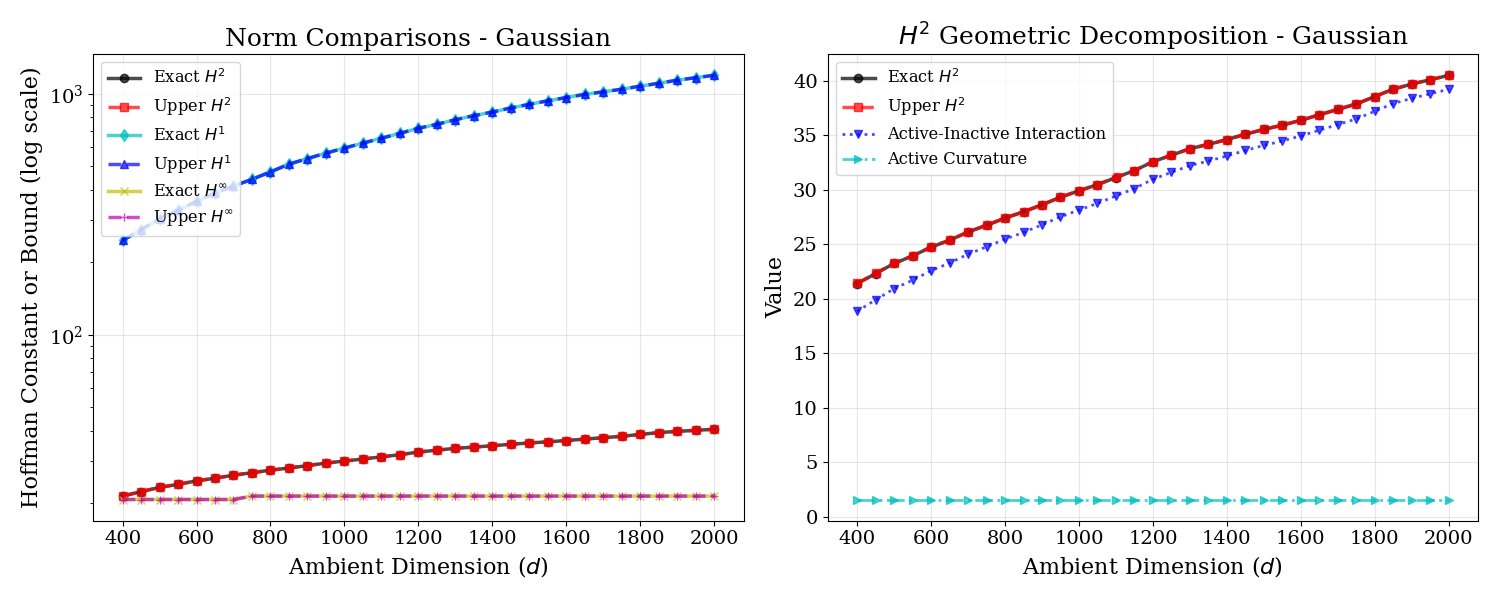
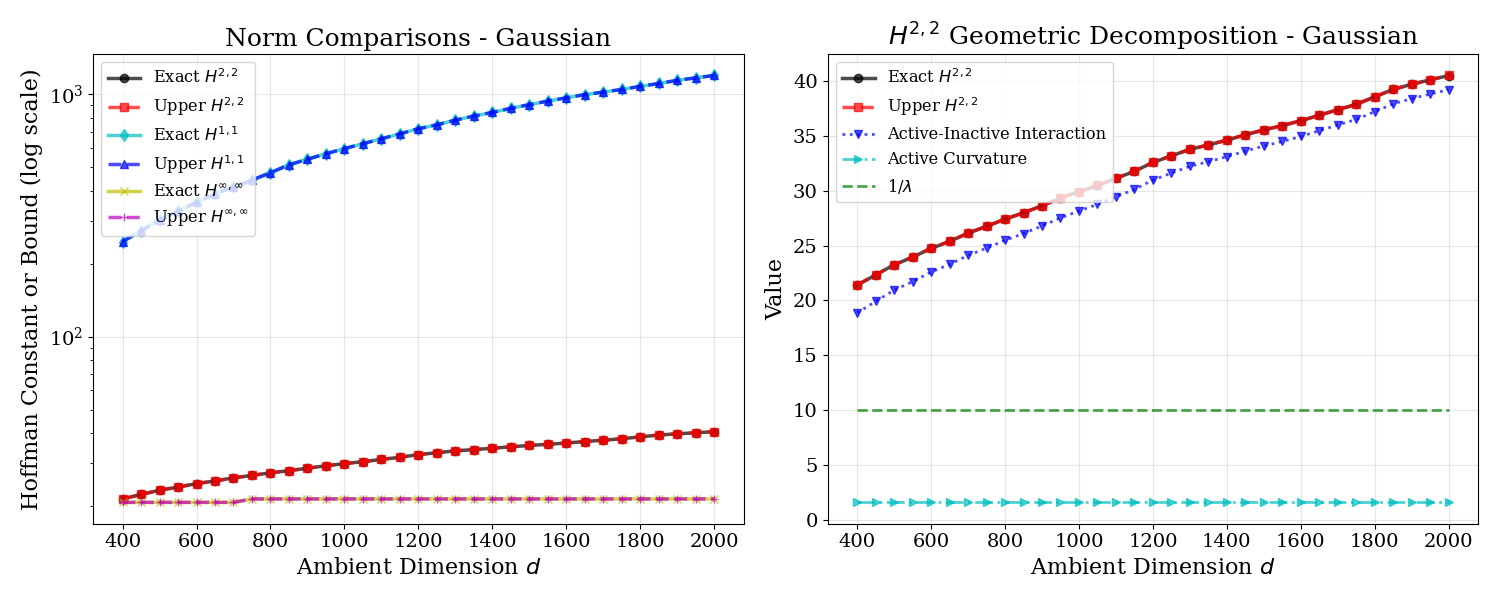
improvements to ambient dimension scaling figure

diff --git a/experiments/hoffman/ambient_dimension_scaling.py b/experiments/hoffman/ambient_dimension_scaling.py
@@ -116,33 +116,36 @@ def run_scaling_experiment(n=200, initial_d=400, max_d=10000, step=100, s=10, la
         df_design = pd.DataFrame(design_results)
         fig, (ax1, ax2) = plt.subplots(1, 2, figsize=(15, 6))
         
-        # --- Left Plot: Norm Comparisons ---
-        ax1.plot(df_design['d'], df_design['exact_h2'], 'k-', marker='o', alpha=0.7, label='Exact $H^2$')
-        ax1.plot(df_design['d'], df_design['upper_h2'], 'r--', marker='s', alpha=0.7, label='Upper $H^2$')
+        # Left Plot: Norm Comparisons
+        ax1.plot(df_design['d'], df_design['exact_h2'], 'k-', marker='o', alpha=0.7, label='Exact $H^{2,2}$')
+        ax1.plot(df_design['d'], df_design['upper_h2'], 'r--', marker='s', alpha=0.7, label='Upper $H^{2,2}$')
         
-        ax1.plot(df_design['d'], df_design['exact_h1'], 'c-', marker='d', alpha=0.7, label='Exact $H^1$')
-        ax1.plot(df_design['d'], df_design['upper_h1'], 'b--', marker='^', alpha=0.7, label='Upper $H^1$')
+        ax1.plot(df_design['d'], df_design['exact_h1'], 'c-', marker='d', alpha=0.7, label='Exact $H^{1,1}$')
+        ax1.plot(df_design['d'], df_design['upper_h1'], 'b--', marker='^', alpha=0.7, label='Upper $H^{1,1}$')
         
-        ax1.plot(df_design['d'], df_design['exact_hinf'], 'y-', marker='x', alpha=0.7, label='Exact $H^\infty$')
-        ax1.plot(df_design['d'], df_design['upper_hinf'], 'm--', marker='+', alpha=0.7, label='Upper $H^\infty$')
+        ax1.plot(df_design['d'], df_design['exact_hinf'], 'y-', marker='x', alpha=0.7, label='Exact $H^{\infty, \infty}$')
+        ax1.plot(df_design['d'], df_design['upper_hinf'], 'm--', marker='+', alpha=0.7, label='Upper $H^{\infty, \infty}$')
         
         ax1.set_yscale('log')
-        ax1.set_xlabel('Ambient Dimension ($d$)')
+        ax1.set_xlabel('Ambient Dimension $d$')
         ax1.set_ylabel('Hoffman Constant or Bound (log scale)')
         ax1.set_title(f'Norm Comparisons - {name.replace("_", " ")}')
         ax1.grid(True, alpha=0.3)
         ax1.legend(loc='upper left', fontsize='small')
         
-        # --- Right Plot: H2 Decomposition ---
-        ax2.plot(df_design['d'], df_design['exact_h2'], 'k-', marker='o', alpha=0.7, label='Exact $H^2$')
-        ax2.plot(df_design['d'], df_design['upper_h2'], 'r--', marker='s', alpha=0.7, label='Upper $H^2$')
+        # Right Plot: H^2,2 Decomposition 
+        ax2.plot(df_design['d'], df_design['exact_h2'], 'k-', marker='o', alpha=0.7, label='Exact $H^{2,2}$')
+        ax2.plot(df_design['d'], df_design['upper_h2'], 'r--', marker='s', alpha=0.7, label='Upper $H^{2,2}$')
         ax2.plot(df_design['d'], df_design['interaction_norm'], 'b:', marker='v', linewidth=2, alpha=0.7, label='Active-Inactive Interaction')
         ax2.plot(df_design['d'], df_design['active_curvature'], 'c-.', marker='>', linewidth=2, alpha=0.7, label='Active Curvature')
+        ax2.plot(df_design['d'], 1/lambda_val * np.ones_like(df_design['d']), 'g--', linewidth=2, alpha=0.7, label='1/$\lambda$')
         
         # ax2.set_yscale('log')
-        ax2.set_xlabel('Ambient Dimension ($d$)')
+        # ax2.set_xscale('log')
+        ax2.set_xlabel('Ambient Dimension $d$')
         ax2.set_ylabel('Value')
-        ax2.set_title(f'$H^2$ Geometric Decomposition - {name.replace("_", " ")}')
+        clean_name = name.replace('_', ' ')
+        ax2.set_title(f'$H^{{2,2}}$ Geometric Decomposition - {clean_name}')
         ax2.grid(True, alpha=0.3)
         ax2.legend(loc='upper left', fontsize='small')
         